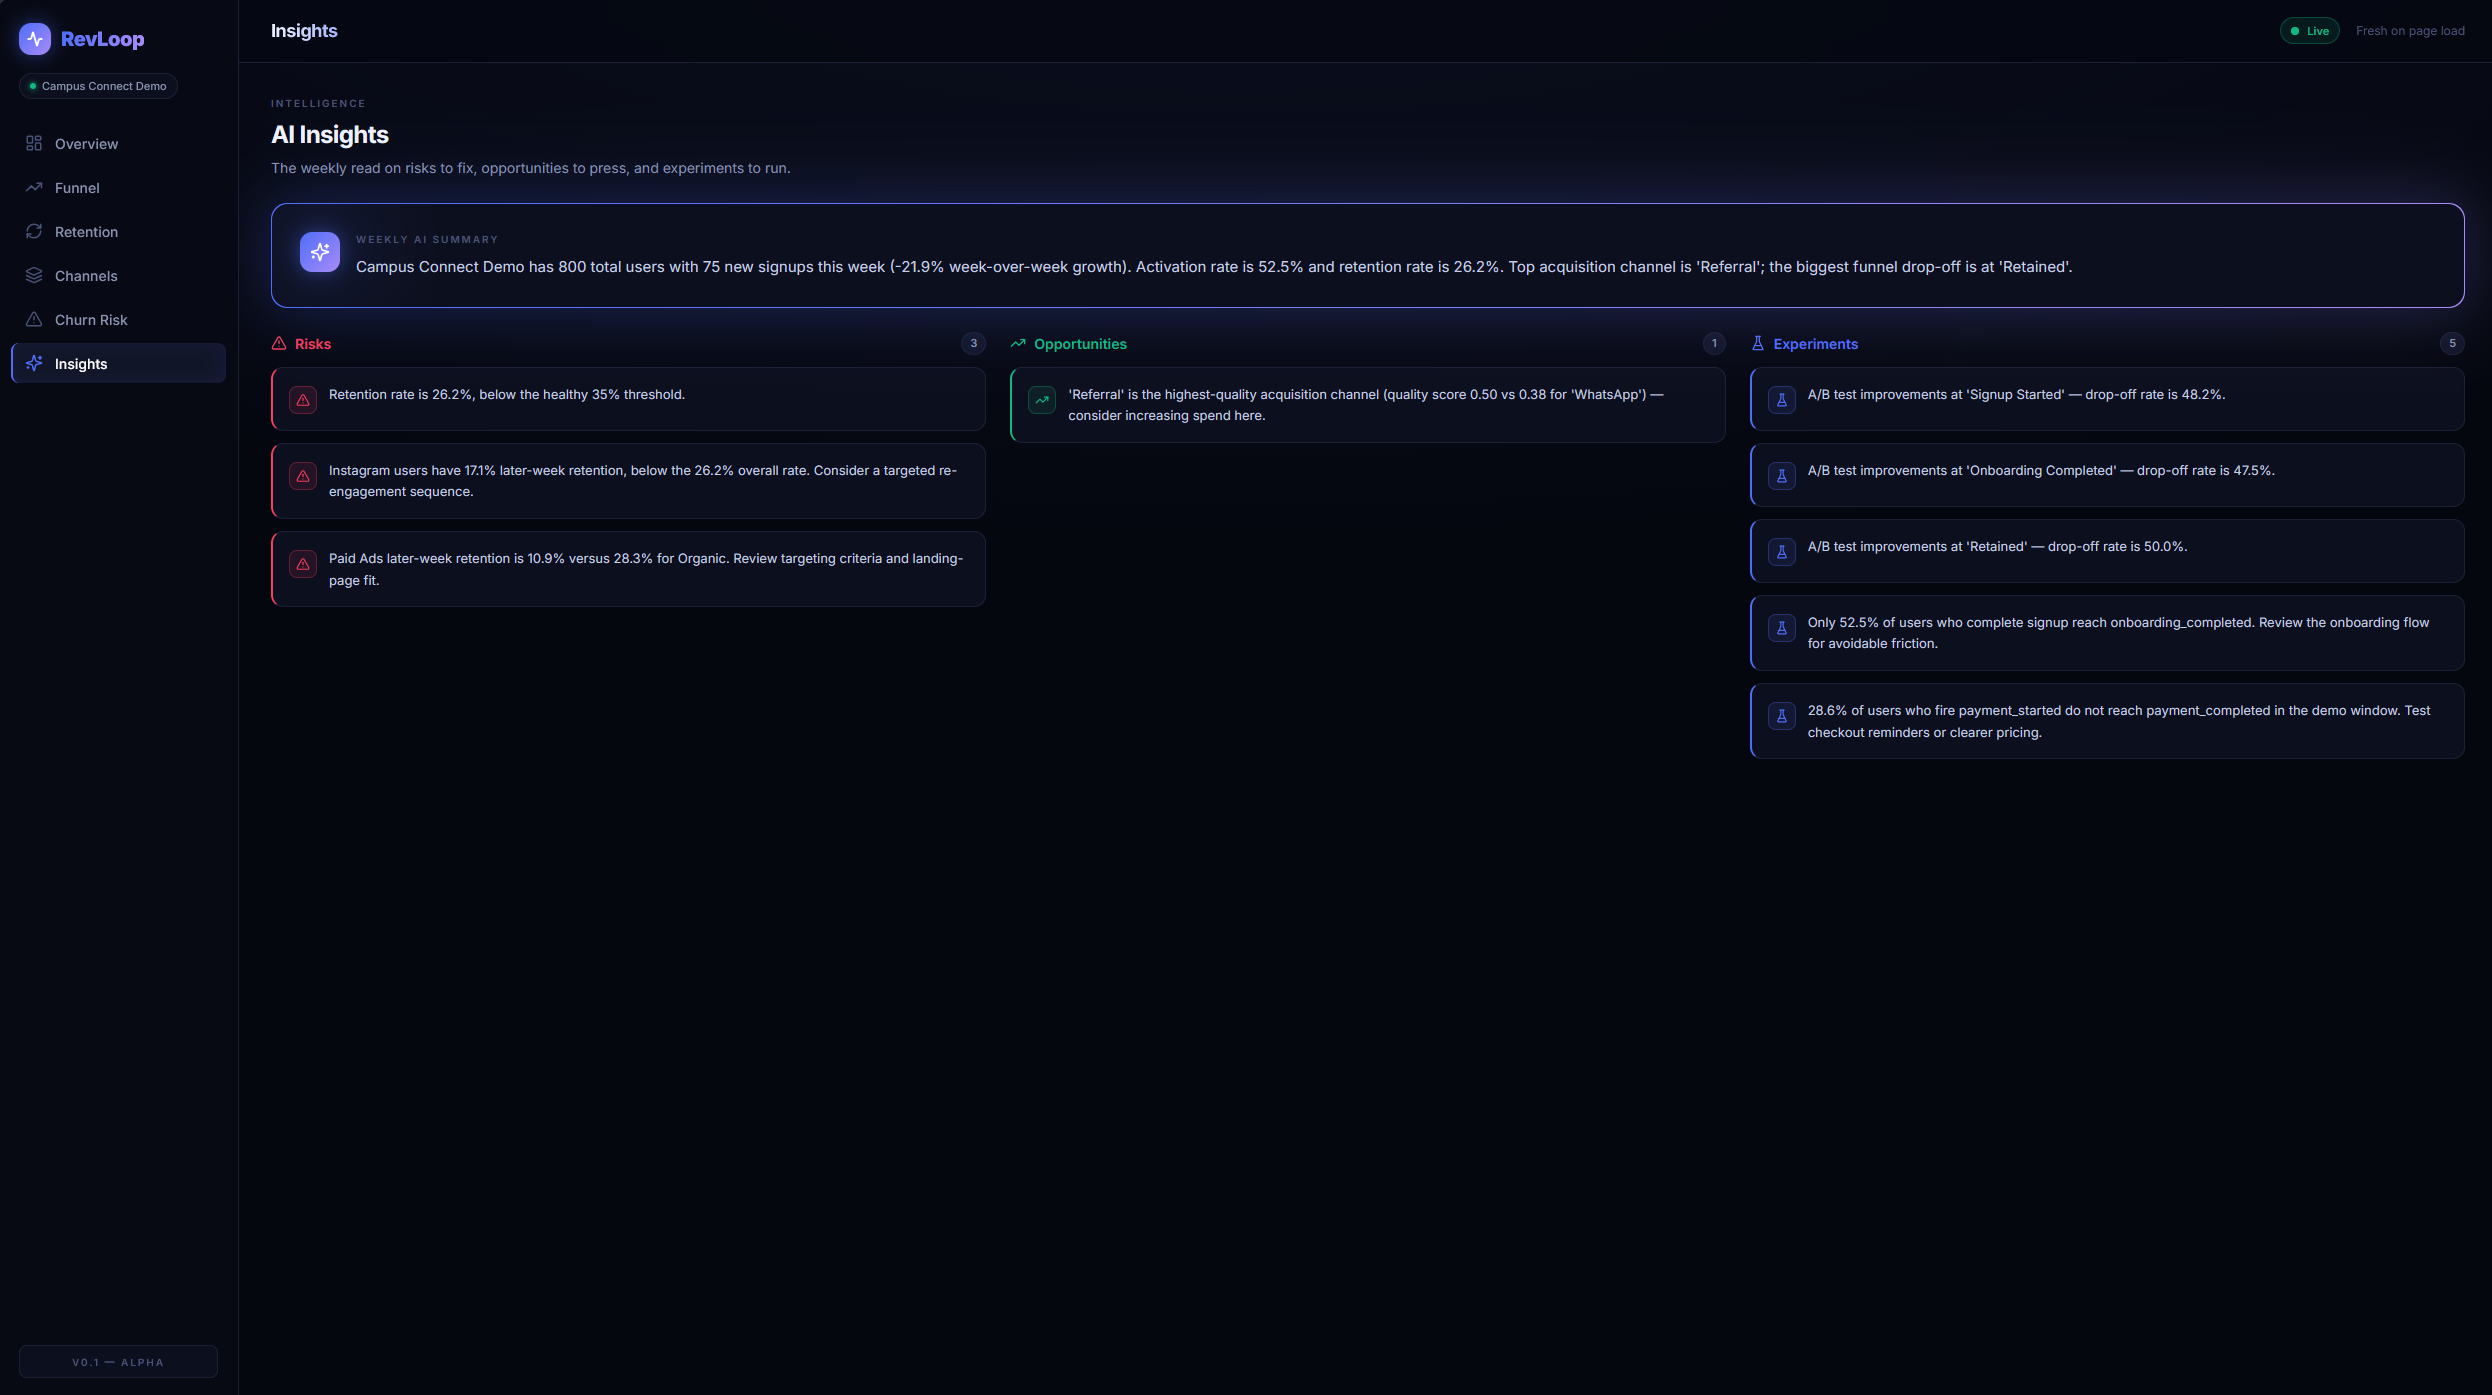
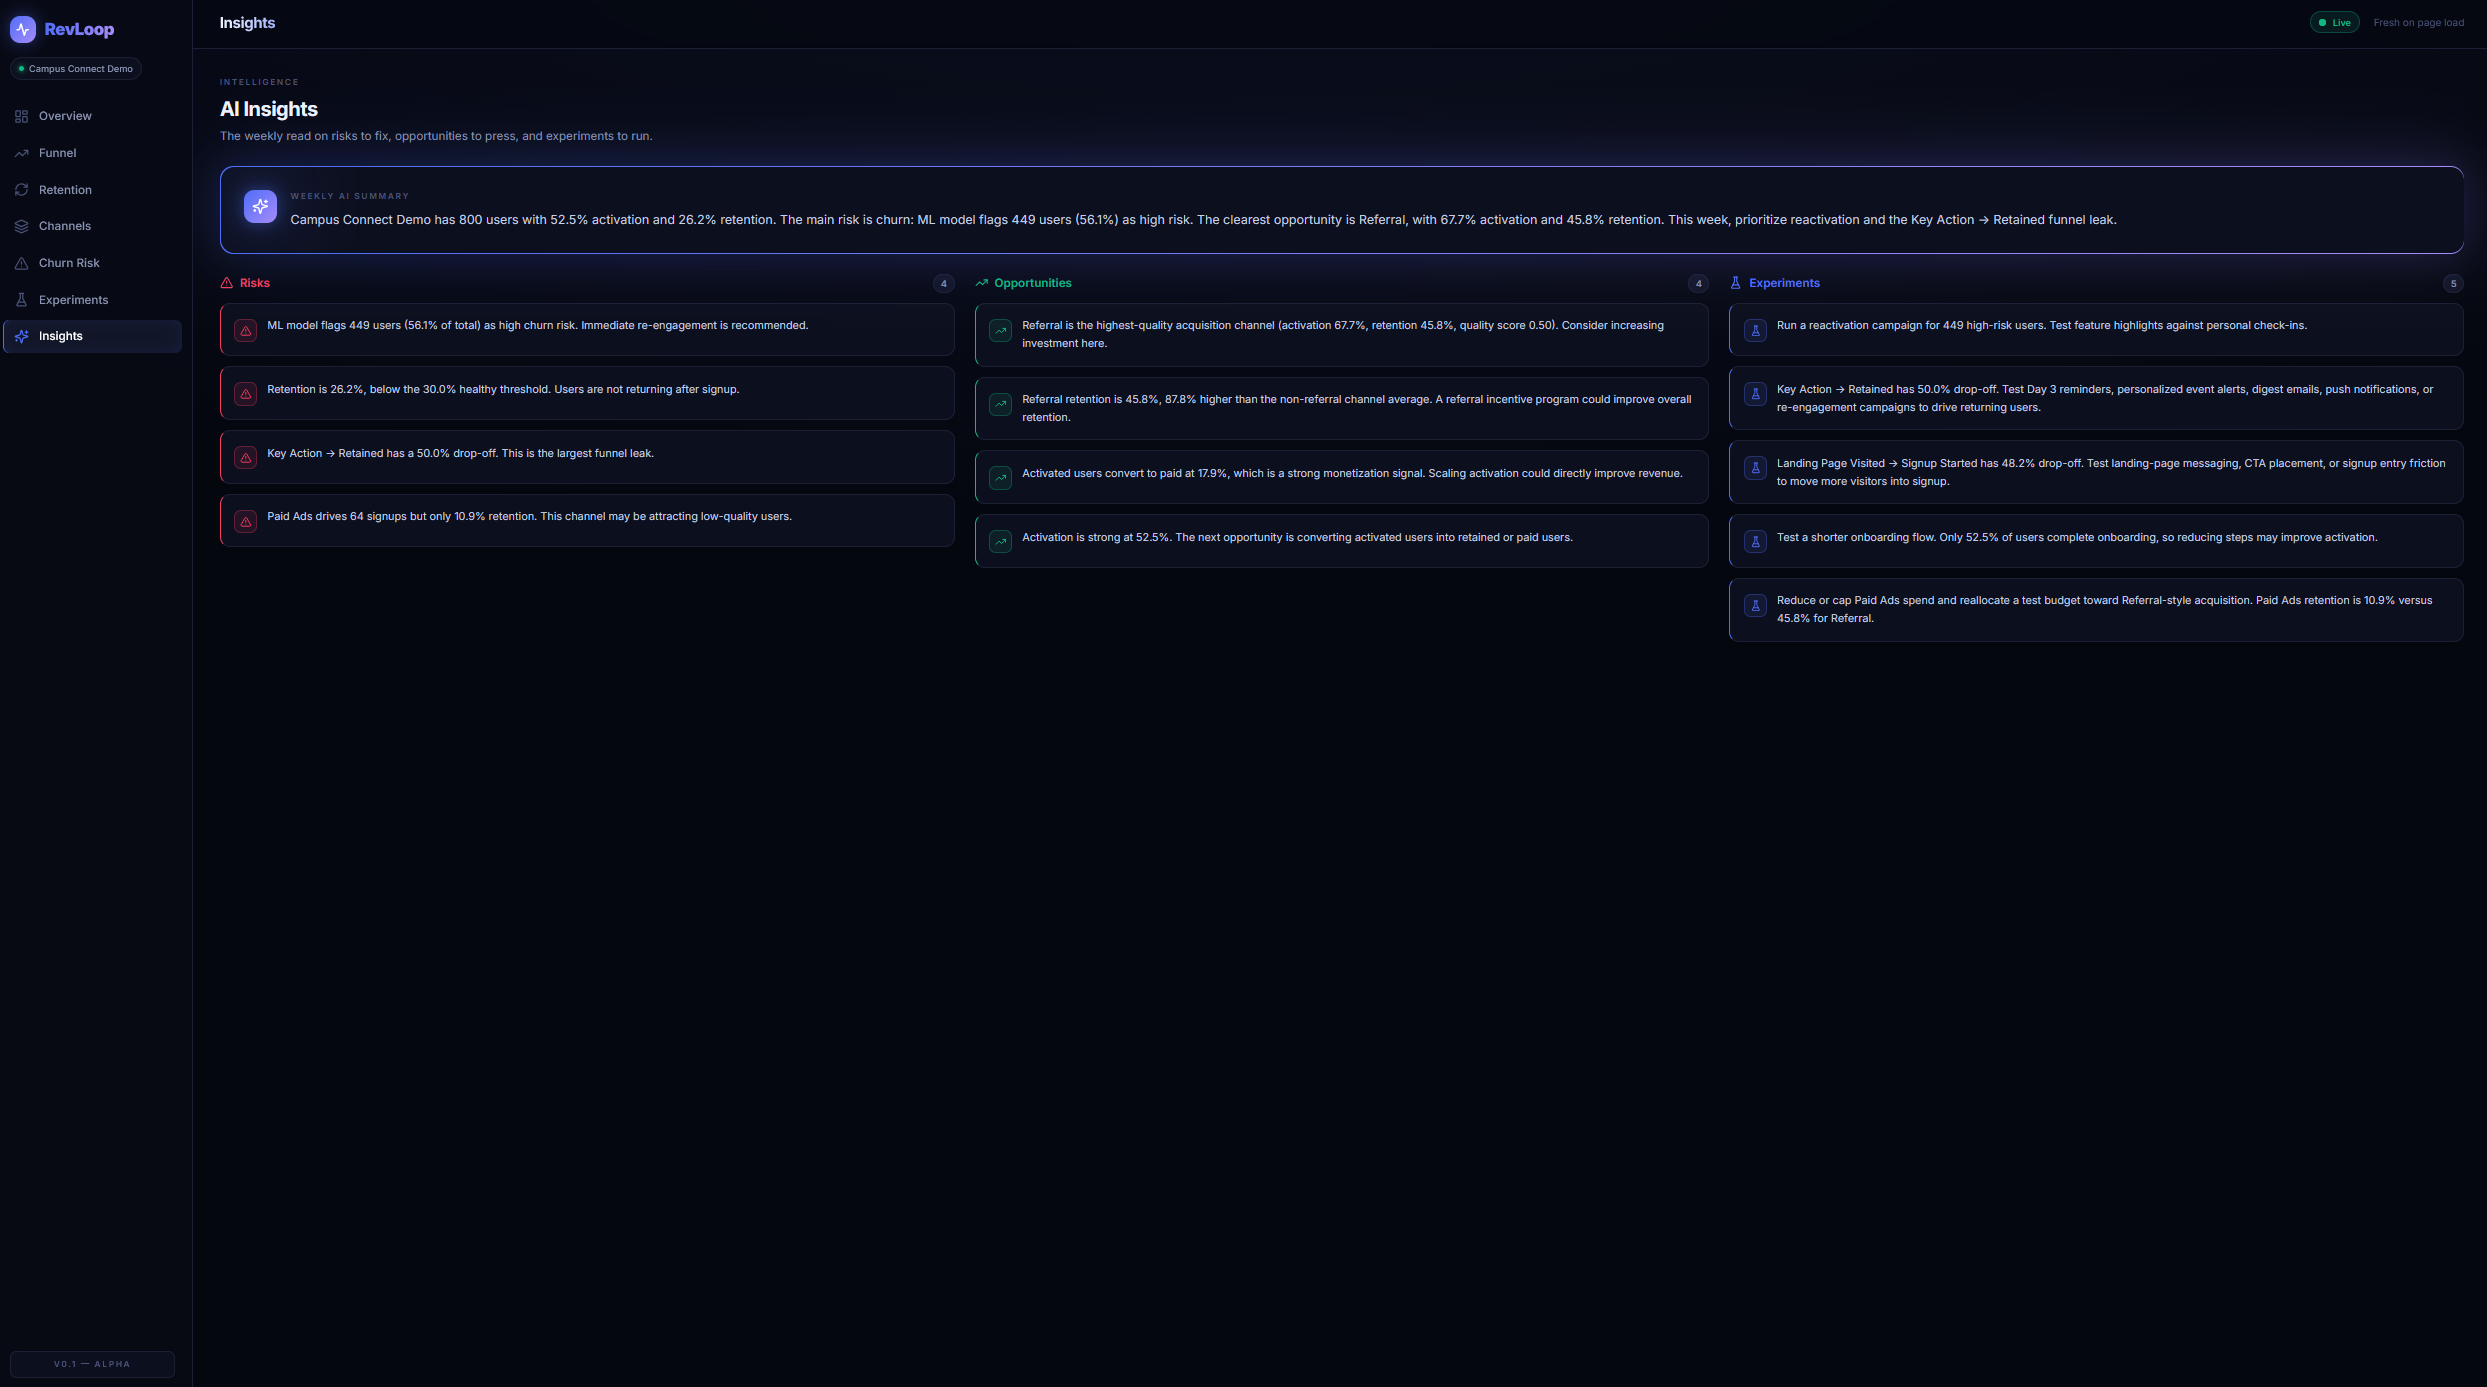
fix: resolve hydration error and landing page blank sections

diff --git a/frontend/components/landing/MetricsSection.tsx b/frontend/components/landing/MetricsSection.tsx
@@ -1,7 +1,7 @@
 "use client";
 
 import { motion, useInView, useReducedMotion } from "framer-motion";
-import { useRef } from "react";
+import { useEffect, useRef, useState } from "react";
 import { AnimatedNumber } from "@/components/common/AnimatedNumber";
 import { cn } from "@/lib/utils";
 
@@ -17,14 +17,14 @@ const METRICS: MetricDef[] = [
   {
     value: 800,
     label: "Users tracked",
-    format: (n) => Math.round(n).toLocaleString(),
+    format: (n) => Math.round(n).toString().replace(/\B(?=(\d{3})+(?!\d))/g, ','),
     color: "text-[#4f6ef7]",
     glowColor: "rgba(79,110,247,0.15)",
   },
   {
     value: 20478,
     label: "Events analyzed",
-    format: (n) => Math.round(n).toLocaleString(),
+    format: (n) => Math.round(n).toString().replace(/\B(?=(\d{3})+(?!\d))/g, ','),
     color: "text-[#a78bfa]",
     glowColor: "rgba(167,139,250,0.15)",
   },
@@ -45,7 +45,7 @@ const METRICS: MetricDef[] = [
   {
     value: 449,
     label: "High-risk users identified",
-    format: (n) => Math.round(n).toLocaleString(),
+    format: (n) => Math.round(n).toString().replace(/\B(?=(\d{3})+(?!\d))/g, ','),
     color: "text-[#f43f5e]",
     glowColor: "rgba(244,63,94,0.15)",
   },
@@ -71,13 +71,13 @@ function MetricCard({
 }) {
   return (
     <motion.div
-      initial={shouldReduce ? undefined : { opacity: 0, y: 20 }}
+      initial={shouldReduce ? undefined : { opacity: 1, y: 20 }}
       animate={
         shouldReduce
           ? undefined
           : active
             ? { opacity: 1, y: 0 }
-            : { opacity: 0, y: 20 }
+            : { opacity: 1, y: 20 }
       }
       transition={
         shouldReduce
@@ -108,7 +108,12 @@ function MetricCard({
 export function MetricsSection() {
   const ref = useRef<HTMLDivElement>(null);
   const isInView = useInView(ref, { once: true, margin: "-80px" });
-  const shouldReduce = useReducedMotion();
+  const mediaReducedMotion = useReducedMotion();
+  const [shouldReduce, setShouldReduce] = useState<boolean | null>(null);
+
+  useEffect(() => {
+    setShouldReduce(mediaReducedMotion);
+  }, [mediaReducedMotion]);
 
   return (
     <section
@@ -117,7 +122,7 @@ export function MetricsSection() {
     >
       <div className="mx-auto max-w-7xl px-4 sm:px-6 lg:px-8">
         <motion.div
-          initial={shouldReduce ? undefined : { opacity: 0, y: 20 }}
+          initial={shouldReduce ? undefined : { opacity: 1, y: 20 }}
           whileInView={shouldReduce ? undefined : { opacity: 1, y: 0 }}
           viewport={{ once: true }}
           transition={{ duration: 0.5 }}

diff --git a/frontend/components/landing/Reveal.tsx b/frontend/components/landing/Reveal.tsx
@@ -1,7 +1,7 @@
 "use client";
 
-import { motion, useReducedMotion } from "framer-motion";
-import type { ReactNode } from "react";
+import { motion, useInView, useReducedMotion } from "framer-motion";
+import { useRef, type ReactNode } from "react";
 
 export function Reveal({
   children,
@@ -12,14 +12,22 @@ export function Reveal({
   delay?: number;
   className?: string;
 }) {
+  const ref = useRef<HTMLDivElement>(null);
   const shouldReduce = useReducedMotion();
+  const isInView = useInView(ref, { once: true, margin: "-60px" });
 
   return (
     <motion.div
+      ref={ref}
       className={className}
-      initial={shouldReduce ? false : { opacity: 0, y: 24 }}
-      whileInView={shouldReduce ? undefined : { opacity: 1, y: 0 }}
-      viewport={{ once: true, margin: "-60px" }}
+      initial={shouldReduce ? false : { opacity: 1, y: 24 }}
+      animate={
+        shouldReduce
+          ? undefined
+          : isInView
+            ? { opacity: 1, y: 0 }
+            : undefined
+      }
       transition={{ duration: 0.5, ease: [0.16, 1, 0.3, 1], delay }}
     >
       {children}

diff --git a/frontend/components/landing/HeroSection.tsx b/frontend/components/landing/HeroSection.tsx
@@ -8,8 +8,8 @@ import { ArrowRight, ChevronRight } from "lucide-react";
 function useFadeUp(delay: number) {
   const shouldReduce = useReducedMotion();
   return {
-    initial: shouldReduce ? undefined : { opacity: 0, y: 24 },
-    animate: shouldReduce ? undefined : { opacity: 1, y: 0 },
+    initial: shouldReduce ? undefined : { y: 24 },
+    animate: shouldReduce ? undefined : { y: 0 },
     transition: shouldReduce
       ? undefined
       : { duration: 0.6, ease: [0.16, 1, 0.3, 1] as const, delay },
@@ -88,8 +88,8 @@ function DashboardPreview() {
     <motion.div
       id="demo"
       className="relative mx-auto max-w-5xl scroll-mt-20"
-      initial={shouldReduce ? undefined : { opacity: 0, scale: 0.97, y: 32 }}
-      animate={shouldReduce ? undefined : { opacity: 1, scale: 1, y: 0 }}
+      initial={shouldReduce ? undefined : { scale: 0.97, y: 32 }}
+      animate={shouldReduce ? undefined : { scale: 1, y: 0 }}
       transition={
         shouldReduce
           ? undefined

diff --git a/frontend/app/layout.tsx b/frontend/app/layout.tsx
@@ -21,7 +21,7 @@ export const metadata: Metadata = {
 
 export default function RootLayout({ children }: { children: ReactNode }) {
   return (
-    <html lang="en" className={inter.variable}>
+    <html lang="en" className={inter.variable} suppressHydrationWarning>
       <body className="font-sans antialiased">{children}</body>
     </html>
   );

diff --git a/frontend/components/landing/LandingFooter.tsx b/frontend/components/landing/LandingFooter.tsx
@@ -69,7 +69,7 @@ export function LandingFooter() {
             </div>
             <p className="text-[10px] text-[#4a5278]">
               Built by Ryan &middot; Portfolio project - not a commercial
-              product &middot; &copy; {new Date().getFullYear()}
+              product &middot; &copy; {2026}
             </p>
           </nav>
         </div>

diff --git a/frontend/components/common/AnimatedNumber.tsx b/frontend/components/common/AnimatedNumber.tsx
@@ -31,6 +31,7 @@ export function AnimatedNumber({
       duration,
       ease: [0.16, 1, 0.3, 1],
       onUpdate: (v) => setDisplay(v),
+      onComplete: () => setDisplay(value),
     });
     fromRef.current = value;
     return () => controls.stop();